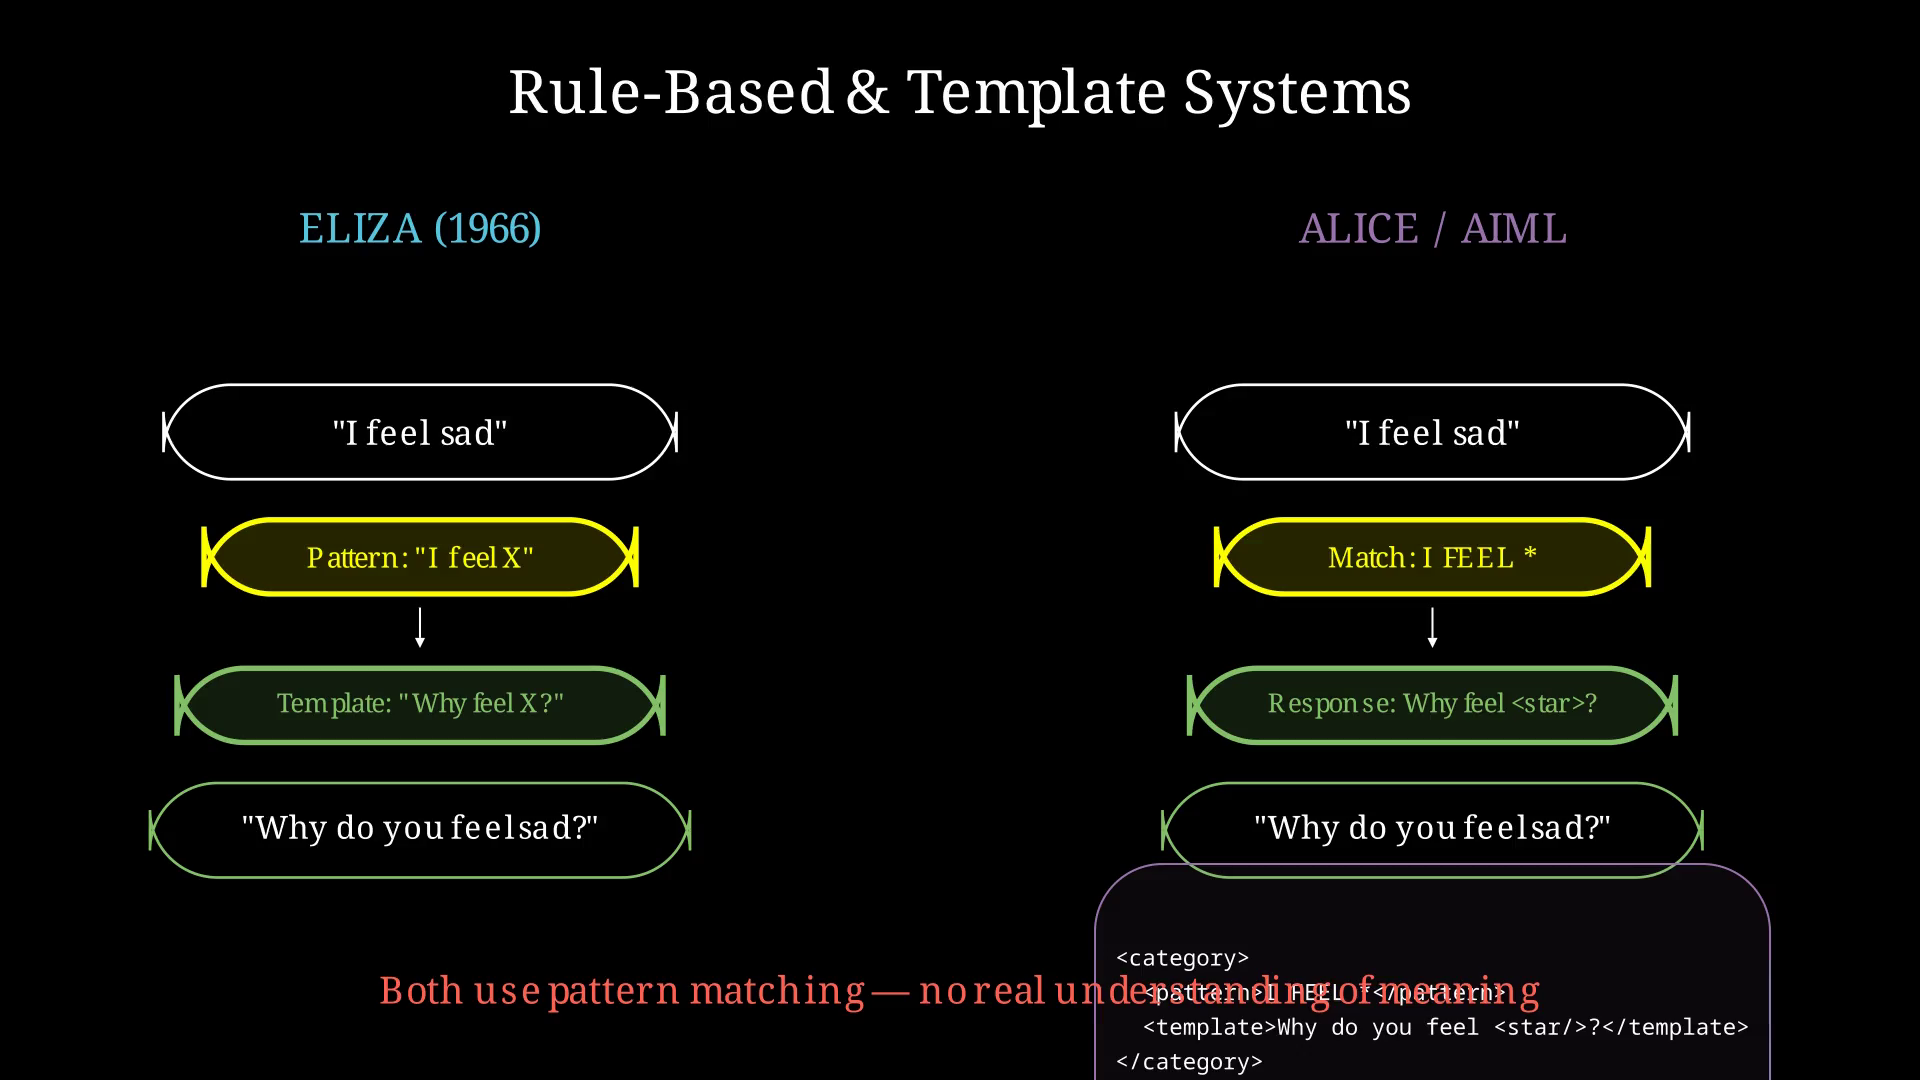
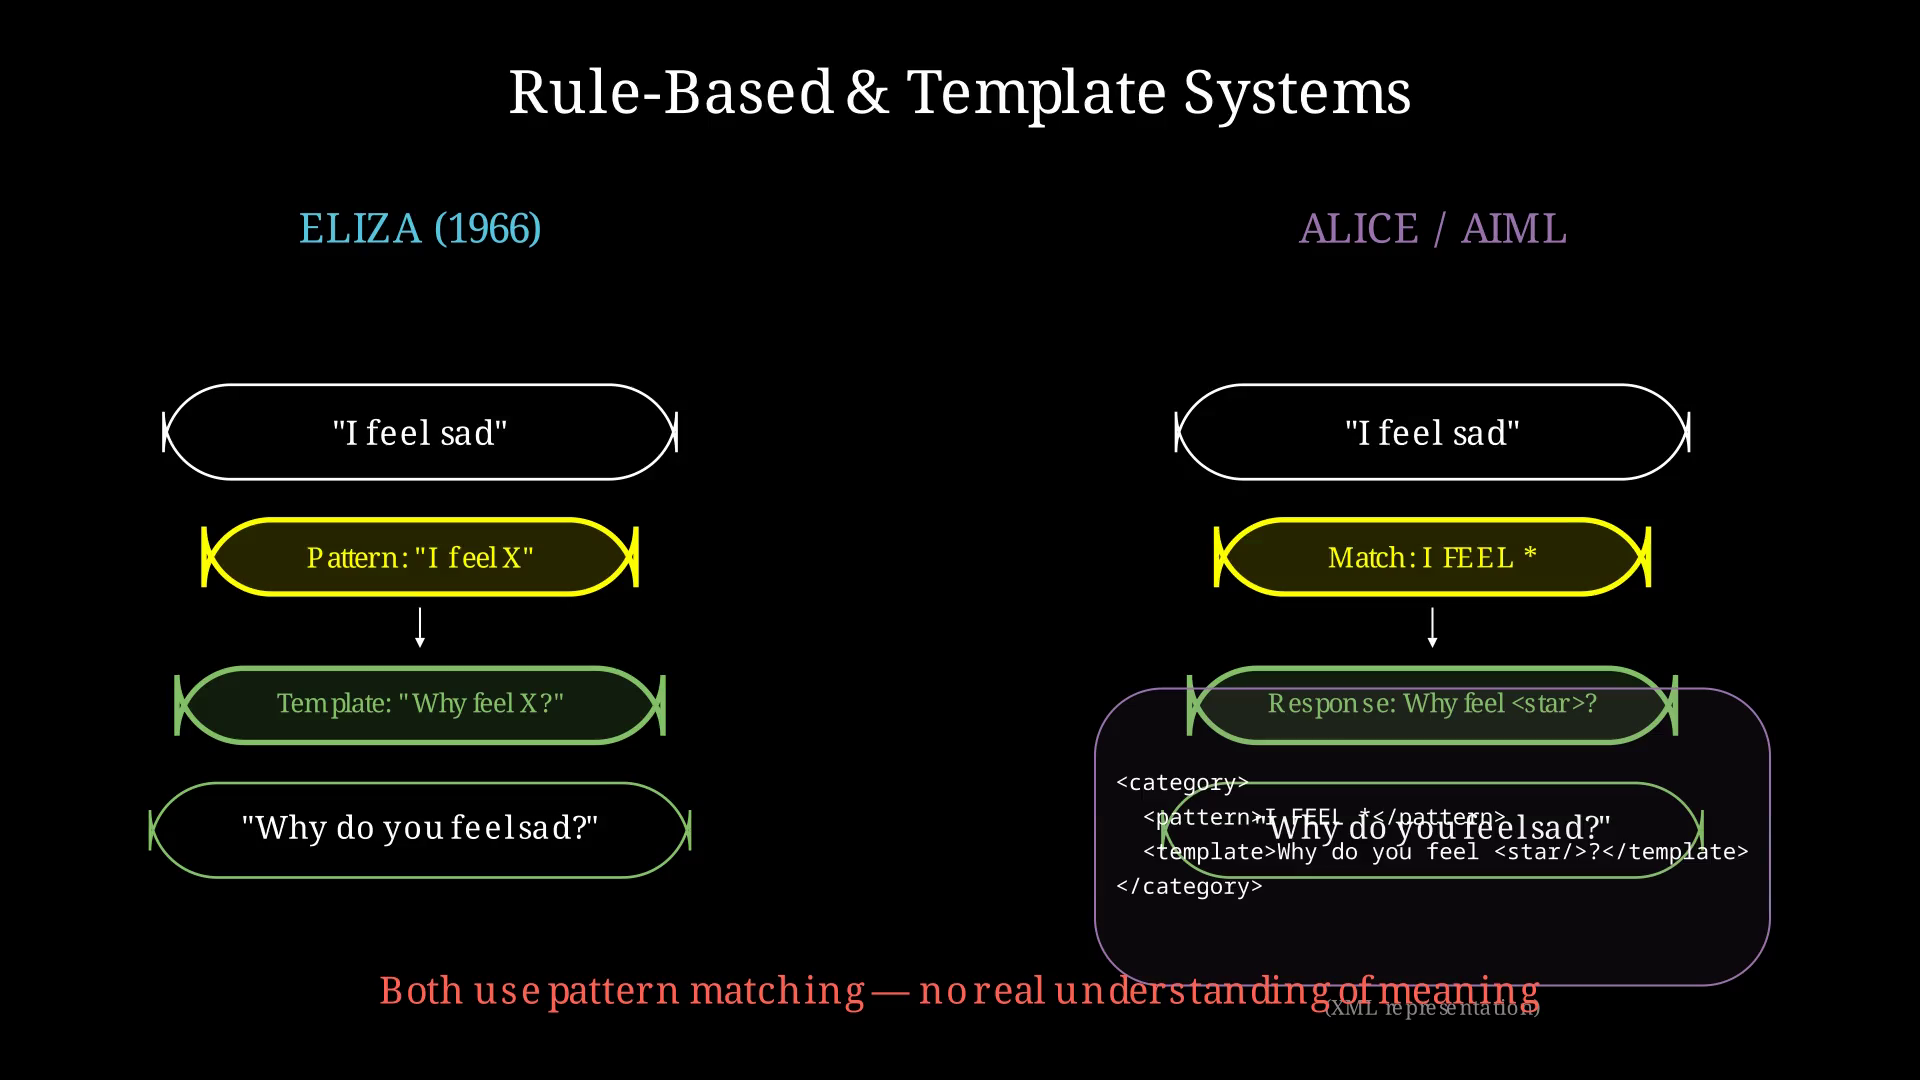
Adjust AIML XML box position to avoid both overlaps
- Move from DOWN*3.5 to DOWN*2.2 - middle ground
- Should avoid both the flow shapes above and bottom subtitle below
- Rerender and update ElizaRuleBased.png

diff --git a/visualizations/ch1_eliza_alice.py b/visualizations/ch1_eliza_alice.py
@@ -80,7 +80,7 @@ class ElizaRuleBased(Scene):
 
         # AIML XML box (below the flow, showing the code)
         aiml_box = RoundedRectangle(height=2.2, width=5, color=PURPLE, fill_opacity=0.08, stroke_width=1.5)
-        aiml_box.shift(RIGHT * 3.5 + DOWN * 3.5)
+        aiml_box.shift(RIGHT * 3.5 + DOWN * 2.2)
 
         aiml_code = Text(
             '<category>\n'
